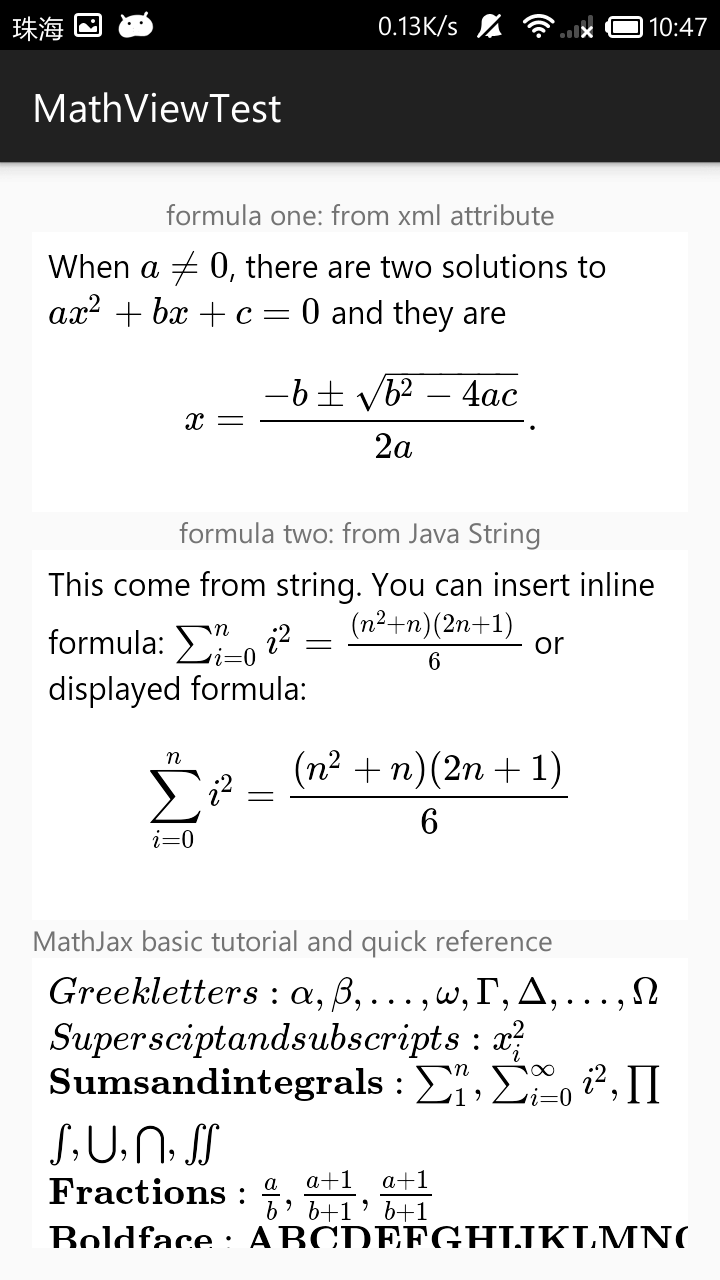
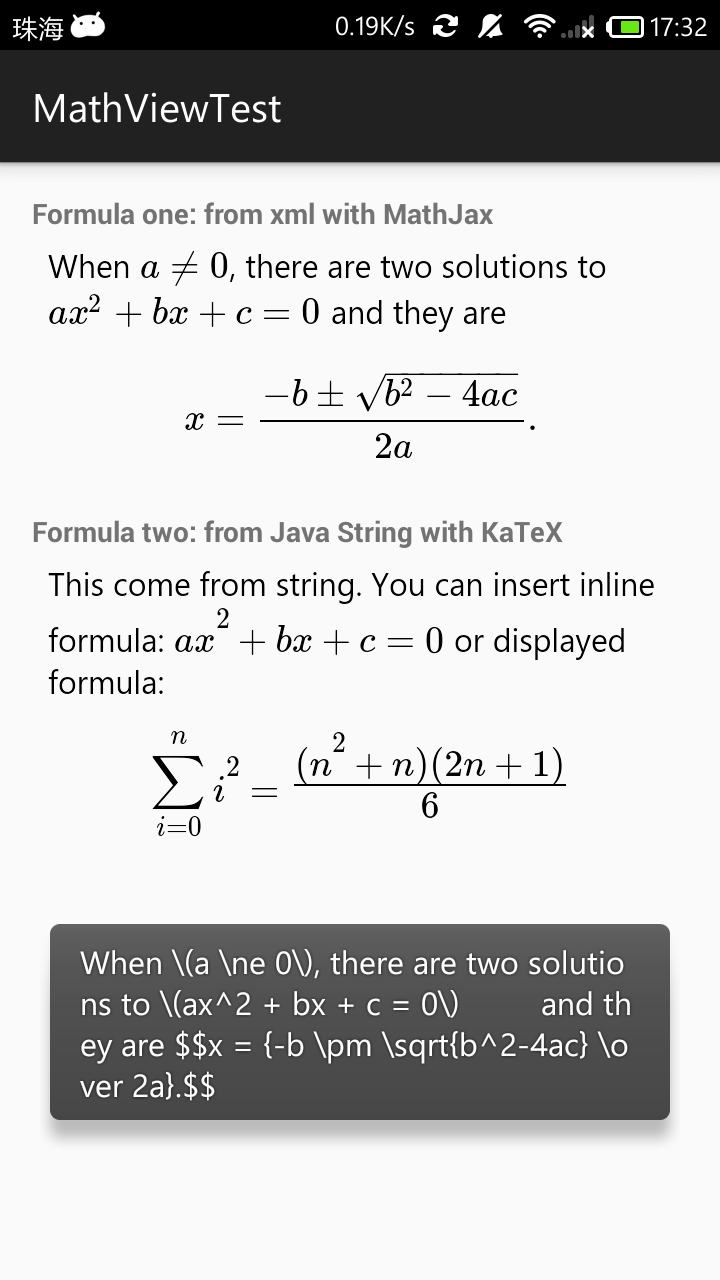
update README.md

diff --git a/README.md b/README.md
@@ -1,9 +1,9 @@
 # MathView
 [ ![Download](https://api.bintray.com/packages/kexanie/maven/MathView/images/download.svg) ](https://bintray.com/kexanie/maven/MathView/_latestVersion) 
 
-`MathView` is a third-party view library, which might help you display math formula on Android apps easier. Support Android version 4.1 (Jelly Bean) and newer.
+`MathView` is a third-party view library, which might help you display math formula on Android apps easier. Two rendering engines available: [MathJax] and [KaTeX]. Support Android version 4.1 (Jelly Bean) and newer. 
 
-<img src="screenshot/screenshot0.png" width="250"> <img src="screenshot/screenshot1.png" width="250"> 
+<img src="screenshot/screenshot0.png" width="250">
 
 ## Setup
 
@@ -14,13 +14,13 @@ There are two ways you can add `MathView` to your project in Android Studio:
 
 ### 1. Setup from a remote Maven repository (jcenter)
 
-Add `compile 'io.github.kexanie.library:MathView:0.0.2'` into **dependencies** section of your **module** build.gradle file. For example:
+Add `compile 'io.github.kexanie.library:MathView:0.0.3'` into **dependencies** section of your **module** build.gradle file. For example:
 
 ```
 dependencies {
     compile fileTree(include: ['*.jar'], dir: 'libs')
     compile 'com.android.support:appcompat-v7:23.0.0'
-    compile 'io.github.kexanie.library:MathView:0.0.2'
+    compile 'io.github.kexanie.library:MathView:0.0.3'
 }
 ```
 
@@ -49,69 +49,57 @@ The behaviour of `MathView` is nearly the same as `TextView`, except that it wil
 2. You need to escape spacial characters like backslash, quotes and so on in Java code.
 3. If you want to make the height of `MathView` actually `wrap_content`, warp the views into `NestedScrollView`.
 
+**About the engines:**
+
+KaTeX is faster than MathJax on mobile environment, but MathJax supports more features and is much more beautiful. Choose whatever suits your needs.
+
 ### Define `MathView` in your layout file
 For example:
 
 ```
-<android.support.v4.widget.NestedScrollView
-    android:layout_width="match_parent"
-    android:layout_height="wrap_content">
-    <LinearLayout
+<LinearLayout ...>
+
+    <TextView
         android:layout_width="match_parent"
         android:layout_height="wrap_content"
-        android:orientation="vertical">
+        android:text="Formula one: from xml with MathJax"
+        android:textStyle="bold"/>
 
-        <TextView
-            android:layout_width="match_parent"
-            android:layout_height="wrap_content"
-            android:text="formula one: from xml attribute"
-            android:gravity="center"/>
+    <io.github.kexanie.library.MathView
+        android:id="@+id/formula_one"
+        android:layout_width="match_parent"
+        android:layout_height="wrap_content"
+        auto:text="When \\(a \\ne 0\\), there are two solutions to \\(ax^2 + bx + c = 0\\)
+        and they are $$x = {-b \\pm \\sqrt{b^2-4ac} \\over 2a}.$$"
+        auto:engine="MathJax"
+        >
+    </io.github.kexanie.library.MathView>
 
-        <io.github.kexanie.library.MathView
-            android:id="@+id/formula_one"
-            android:layout_width="match_parent"
-            android:layout_height="wrap_content"
-            auto:text="When \\(a \\ne 0\\), there are two solutions to \\(ax^2 + bx + c = 0\\)
-                and they are $$x = {-b \\pm \\sqrt{b^2-4ac} \\over 2a}.$$"
-            >
-        </io.github.kexanie.library.MathView>
+    <TextView
+        android:layout_width="match_parent"
+        android:layout_height="wrap_content"
+        android:text="Formula two: from Java String with KaTeX"
+        android:textStyle="bold"/>
 
-        <TextView
-            android:layout_width="match_parent"
-            android:layout_height="wrap_content"
-            android:text="formula two: from Java String"
-            android:gravity="center_horizontal"/>
+    <io.github.kexanie.library.MathView
+        android:id="@+id/formula_two"
+        android:layout_width="match_parent"
+        android:layout_height="wrap_content"
+        auto:engine="KaTeX"
+        >
+    </io.github.kexanie.library.MathView>
 
-        <io.github.kexanie.library.MathView
-            android:id="@+id/formula_two"
-            android:layout_width="match_parent"
-            android:layout_height="wrap_content"
-            >
-        </io.github.kexanie.library.MathView>
+</LinearLayout>
 
-        <TextView
-            android:layout_width="match_parent"
-            android:layout_height="wrap_content"
-            android:text="MathJax basic tutorial and quick reference"/>
-
-        <io.github.kexanie.library.MathView
-            android:id="@+id/font_test"
-            android:layout_width="match_parent"
-            android:layout_height="wrap_content"
-            >
-        </io.github.kexanie.library.MathView>
-    </LinearLayout>
-</android.support.v4.widget.NestedScrollView>
 ```
 
 ### Get an instance from your `Activity`
 ```
 public class MainActivity extends AppCompatActivity {
-    MathView math_one;
-    MathView math_two;
-    MathView font_test;
+    MathView formula_one;
+    MathView formula_two;
     String tex = "This come from string. You can insert inline formula:" +
-            " \\(\\sum_{i=0}^n i^2 = \\frac{(n^2+n)(2n+1)}{6}\\) " +
+            " \\(ax^2 + bx + c = 0\\) " +
             "or displayed formula: $$\\sum_{i=0}^n i^2 = \\frac{(n^2+n)(2n+1)}{6}$$";
 
     @Override
@@ -124,74 +112,24 @@ public class MainActivity extends AppCompatActivity {
     protected void onResume() {
         super.onResume();
 
-        math_one = (MathView) findViewById(R.id.formula_one);
-        math_two = (MathView) findViewById(R.id.formula_two);
-        font_test = (MathView) findViewById(R.id.font_test);
+        formula_one = (MathView) findViewById(R.id.formula_one);
+        formula_two = (MathView) findViewById(R.id.formula_two);
 
         // This toast will print raw TeX string
-        Toast.makeText(this, math_one.getText(), Toast.LENGTH_LONG).show();
-        math_two.setText(tex);
-        font_test.setText(
-                "\\(Greek letters: \\alpha, \\beta, …, \\omega, \\Gamma, \\Delta, …, \\Omega\\)" +
-                "\\(Superscipt and subscripts: x_i^2\\)" +
-                "\\(\\mathbf{Sums and integrals}: \\sum_1^n, \\sum_{i=0}^\\infty i^2, \\prod \\\\" +
-                        " \\int, \\bigcup, \\bigcap, \\iint\\)" +
-                "\\(\\mathbf{Fractions}: \\frac ab, \\frac{a+1}{b+1}, {a+1\\over b+1}\\)" +
-                        "\\(\\mathbf{Boldface}: \\mathbf{ABCDEFGHIJKLMNOPQRSTUVWXYZ}\\)" +
-                        "\\(\\mathtt{Typewriter font}: \\mathtt{ABCDEFGHIJKLMNOPQRSTUVWXYZ}\\)" +
-                        "\\(\\mathrm{Roman font}: \\mathrm{ABCDEFGHIJKLMNOPQRSTUVWXYZ}\\)" +
-                        "\\(\\mathcal{Calligraphic}: \\mathcal{ABCDEFGHIJKLMNOPQRSTUVWXYZ}\\)" +
-                        "\\(\\mathfrak {Fraktur letters}: \\mathfrak {ABCDEFGHIJKLMNOPQRSTUVWXYZ}\\)");
+        Toast.makeText(this, formula_one.getText(), Toast.LENGTH_LONG).show();
+        formula_two.setText(tex);
     }
 }
 ```
 **Noted that the method `MatView.getText()` will return the raw TeX code (Java `String`).**
 
 ## How it works
-`MathView` inherited from Android `WebView` and use the javascript library [MathJax](https://www.mathjax.org/ "MathJax") (a lightweight version) to do the rendering stuff. Another library called [Chunk](https://github.com/tomj74/chunk-templates/ "Chunk") is just an lightweight Java template engine for filling the TeX code into an html file. So MathJax can render it. It's still rather primitive, but at least functional.
-
-```
-public class MathView extends WebView {
-    private Chunk chunk;
-    private String mText;
-    private TypedArray mTypeArray;
-
-    public MathView(Context context, AttributeSet attrs) {
-        super(context, attrs);
-        this.getSettings().setJavaScriptEnabled(true);
-        AndroidTemplates loader = new AndroidTemplates(context);
-        chunk = new Theme(loader).makeChunk("mathview");
-
-        mTypeArray = context.getTheme().obtainStyledAttributes(
-                attrs,
-                R.styleable.MathView,
-                0, 0
-        );
-
-        try {
-            setText(mTypeArray.getString(R.styleable.MathView_text));
-        } finally {
-            mTypeArray.recycle();
-        }
-    }
-
-    public void setText(String text) {
-        mText = text;
-        chunk.set("formula", mText);
-        this.loadDataWithBaseURL(
-            null, chunk.toString(), "text/html", "utf-8", "about:blank");
-    }
-
-    public String getText() {
-        return mText;
-    }
-}
-```
-Check the code for more details.
+`MathView` inherited from Android `WebView` and use javascript ( [MathJax] or [KaTeX] ) to do the rendering stuff. Another library called [Chunk] is just an lightweight Java template engine for filling the TeX code into an html file. So we can render it. It's still rather primitive, but at least functional. Check the code for more details.
 
 ## Known Bugs
 
-1. Some characters are blank(like character 'B' of BlackBoard Bold font) due to MathJax's [bug] on Android `WebView`.
+1. When rendering with MathJax, some characters are blank(like character 'B' of BlackBoard Bold font) due to MathJax's [bug] on Android `WebView`.
+2. Not all TeX commands are supported by KaTeX, check this [link] for more details.
 
 
 
@@ -202,3 +140,7 @@ If you have any issues or need help please do not hesitate to create an issue ti
 
 [tutorial]: http://meta.math.stackexchange.com/questions/5020/mathjax-basic-tutorial-and-quick-reference
 [bug]: https://github.com/mathjax/MathJax/issues/403
+[MathJax]: https://www.mathjax.org/
+[KaTeX]: https://github.com/Khan/KaTeX
+[Chunk]: https://github.com/tomj74/chunk-templates/
+[link]: https://github.com/Khan/KaTeX/wiki/Function-Support-in-KaTeX
